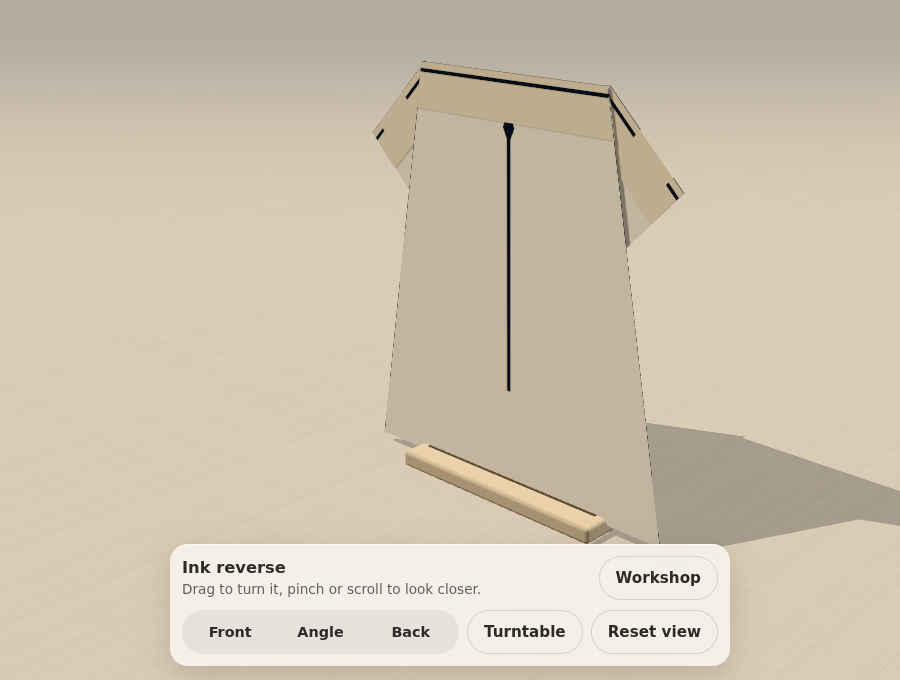
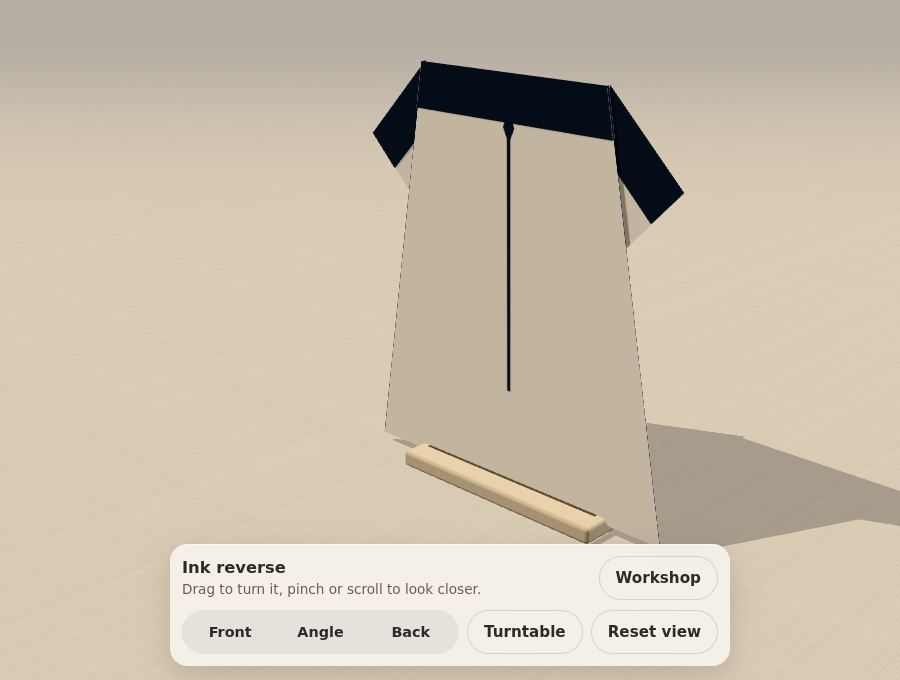
Match the paper notes to the new folded sheet
The back row is on the contact sheet. Ink reverse reads as a dark collar, sleeves, and back, and Corner bloom at 0° keeps most of the flower.

Changed region(s): [[0.4044, 0.0926, 0.7778, 0.3397]]

diff --git a/docs/paper-studies/NOTES.md b/docs/paper-studies/NOTES.md
@@ -1,59 +1,59 @@
 # Paper studies — what folding does to the pattern
 
-Captures are from one Chromium session (Playwright, software WebGL), viewport 900×680. Every shot in a category used the same camera position (matched to 0.001 model units). Flat shots are workshop step 0. Folded shots are the finished dress in Display, Front preset, with the Angle preset underneath on `folded-grid.png`. UI chrome was hidden after layout so it would not sit in the frame. Pattern rotation turns the front drawing only; the reverse does not rotate.
+Captures are from one Chromium session (Playwright, software WebGL), viewport 900×680. Every shot in a category used the same camera position (matched to 0.001 model units). Flat shots are workshop step 0. `folded-grid.png` is the finished dress at the Front preset, then Angle, then Back. UI chrome was hidden after layout. Pattern rotation turns the front drawing only; the reverse does not rotate.
 
-The dress front is the centre of the sheet between the slanted side creases. The top tenth becomes the collar and shows the reverse. The side flaps fold back and show their front drawing on the outside of the back. Sleeves show the reverse.
+On the finished dress the collar and the sleeves show the reverse. The Back preset is mostly that same reverse across the centre, with a patch of the front drawing where a side flap lies on top.
 
 ## Stripe and disc
 
-The disc survives, but the left side crease cuts it. On the front you get the right-hand part of the disc low on the skirt; the rest is on the back panel. Diagonal stripes stay readable and kink where a panel folds, so the back does not look like a copy of the front. The blue-grey reverse is a flat colour on the collar and the sleeves. No rotation set was shot; the disc is the thing that moves, and the default place (cut by the left crease) is already the interesting one.
+Most of the red disc is on the front, low and left of centre. The left edge cuts it, and a small red piece shows on the back. The stripes stay readable on the front. The blue-grey reverse is the collar, the sleeves, and the main field of the back. No rotation set was shot.
 
 ## Ivory, ink border
 
-The empty centre is the whole dress front. The ink frame is wider than the front panel at the shoulders, so it leaves with the side flaps and shows along the back edges. The black reverse is the collar and the sleeves. The small corner mark is not on the front. Turning it matters less than on a directional pattern: the frame is nearly symmetric, and the mark is small enough to disappear into a sleeve or a flap.
+The front is the empty ivory centre. No border and no corner mark show there. The collar and sleeves are black. The back is mostly that black reverse, with an ivory patch from a folded flap. The frame is nearly symmetric, so a quarter turn does not rearrange the front the way a one-sided motif does. No rotation set was shot.
 
 ## Indigo lattice
 
-The lattice still reads as one pattern after folding. Creases are obvious because the diagonals change direction on the back panels. Nothing is a focal point, so nothing is awkwardly cropped; the repeat just continues. The ochre reverse is a flat band on the collar and sleeves. A quarter turn swaps which diagonal is steeper. It is visible if you look, and it does not rescue or ruin the dress.
+The lattice covers the front and still reads as one repeat. Nothing large gets cropped. The ochre reverse is the collar, the sleeves, and the main field of the back; a dark blue patch of the front pattern sits on that back. A quarter turn changes which way the diagonals lean. It is visible, and it does not make or break the dress. No rotation set was shot.
 
 ## Botanical sprigs
 
-The half-drop sprigs cover the front and the back, so the dress never looks blank. Individual sprigs are cut in half at the side edges and at the collar fold. At this density that reads as a scatter, not as a broken picture. The mauve reverse is only the collar and sleeves. Rotation moves which sprigs are sliced, not the overall look.
+The sprigs cover the front. Some are cut at the side edges. The mauve reverse is the collar, the sleeves, and the main field of the back, so the back is not a second field of sprigs. A little of the print shows on the flap. Rotation moves which sprigs sit on the front. No rotation set was shot.
 
 ## Wide frame
 
-Flat, this is a dark green frame: thick bands at the top and bottom, thin bands at the sides, rust rules inside, empty middle. Folded, the empty middle is the dress. The top band is almost entirely the collar zone, so it disappears and the collar is the rust reverse instead. The thin side bands go to the back edges. What is left on the front is a dark band along the hem. At 90° and 270° the thick bands are on the sides, so they fold away and the front is bare except for the rust collar. At 180° the thick band sits under the collar and the thinner band is the hem. 0° is the only turn that keeps a clear piece of the border on the front, and even then it is just the hem. The reverse is a flat rust, strongest as the collar against the green hem.
+Flat, this is a dark green frame: thick bands at the top and bottom, thin bands at the sides, rust rules, empty middle. At 0° the front of the dress is that empty middle, with a dark green band along the hem. The top band falls in the collar zone, so the collar is the rust reverse instead. 180° also keeps a green band along the hem. At 90° and 270° there is no hem band; a narrow green strip stays on the left edge and the rest of the front is empty. The back field is the rust reverse, with a dark green patch where a side band folded in.
 
 ## Corner bloom
 
-One flower, low and to the left. At 0° the left crease cuts through it: the front shows a crescent of petals on the lower left, and the angle view shows the rest of the flower on the back panel, including leaves. The collar and sleeves are the dark green reverse, with no flower on them. At 90° the flower sits on the upper left and the collar and shoulder fold take most of it; a fragment remains. At 180° the flower is off the front entirely (it has gone to the back or into the collar zone) and the dress is a blank square with green sleeves. At 270° the flower sits low on the front, large enough to read as a whole bloom, with only the outer edge toward the side. 270° is the best front. 0° is the best if you want to see the cut, because the angle view still shows the missing half.
+One flower, low and to the left on the sheet. At 0° most of the bloom is on the left edge of the skirt. The leaves are cut off at that edge. It is not a thin crescent. At 90° the flower moves to the upper left and the collar cuts the top of it. At 180° it sits on the upper right of the front. At 270° most of it sits on the lower right of the skirt, still meeting the edge. The collar, the sleeves, and the back field are the dark green reverse. Almost none of the red flower is on the back. 270° is the best front: the flower is low on the skirt rather than pushed into the collar. 0° is the one that shows the side cut.
 
 ## Open stems
 
-Three stems and a lot of bare paper. At 0° one stem stands on the dress front, with a few leaves and the berries; it is thin, and the collar crops whatever reached the top edge. A second stem is on the right back panel in the angle view. The third is easy to lose. The reverse is a flat tan on the collar and sleeves and does not compete. Pixel counts of green on the front: 0° the most, then 90° (a stem still crosses the bodice), then 180° and 270° much emptier. 0° is the best. The open ground survives as open ground, which is the point, but two of the three stems do not stay on the front together.
+A few stems on a bare ground. At 0° they read on the front: stem, leaves, and the small berries, with a lot of empty paper around them. The collar and the back field are the tan reverse. Some green is on the back flap, not a second full stem. More of the drawing stays on the front at 0° than at 180° or 270°, where it shifts up and less of it remains in the skirt. 90° still crosses the bodice. 0° is the best of the four.
 
 ## Falling chevrons
 
-Every mark points toward the bottom edge of the sheet, and the strokes get heavier toward that edge. On the dress at 0° they point toward the hem and the hem is the darkest row. The side panels on the angle view are covered in the same marks, turned by the fold, so the back does not point with the front. Dashes are large enough that a crease cutting one of them still leaves a readable row. The reverse is a flat warm grey on the collar and sleeves. 0° is the best: the weight sits in the skirt and the direction follows the dress. 180° puts the heavy row at the neck and points the marks at the collar. 90° and 270° point them out the sides, so the bodice has no up-and-down.
+The marks point toward the bottom edge of the sheet, and the strokes get heavier that way. At 0° the front is heavier toward the hem. At 180° the dark marks sit in the upper part of the dress and the skirt is the light end. At 90° the heavier side is the left. The collar, the sleeves, and the back field are the grey reverse, so the back is not a second sheet of chevrons. 0° is the best: the weight sits in the skirt.
 
 ## Seed dashes
 
-A 16-by-16 grid of short horizontal dashes. On the dress they become a fine texture, not a figure. You can see that the surface is printed, including on the back panels, and you can see individual dashes get clipped at a panel edge. Nothing is noisy, and nothing is a focal point. The reverse is a muted green, clearly a different face, and it is the strongest thing about the folded piece: the collar and sleeves are green against the oatmeal ground. A quarter turn would stand the dashes on end. At this size that is a small change, so no rotation sheet was made.
+Short horizontal dashes on a wide grid. On the front they are a fine texture. You can see dashes, and you can see the ground between them. They do not form a figure, and they do not turn into noise. The collar, the sleeves, and the back field are the muted green reverse, which is easier to see than the dashes. A quarter turn would stand the dashes on end. At this size that is a small change, so no rotation sheet was made.
 
 ## Ink reverse
 
-The front is a warm blank with one vertical stroke and a small diamond. That stroke stays on the bodice at 0°. It is quiet, and a fold does not cut it. The reverse is the actual design: dark blue ground, a pale band across the top, pale corner blocks, and a large off-centre pale disc. Folded, the pale band is the collar. The angle view shows the dark ground and a large part of the disc on the sleeves, so the flipped faces are not a flat fill. The disc does not appear on the dress front. The back panels themselves are mostly the pale front paper, because those flaps show the front drawing. Rotation was not sheeted: the drawn reverse does not turn with the pattern, and turning the front only swings the single stroke (vertical bar versus a bar across the bodice).
+The front is a warm ground with one dark vertical stroke and a small diamond. The stroke sits on the bodice and is not split by a crease. The reverse is the same dark ink across the sheet, with a pale ring drawn in the middle. On the finished dress that ring does not appear. What shows is the dark field: the collar, both sleeves, and the main field of the back. A pale patch of the front paper lies on the back where a flap folds in. The contrast is the dark reverse against the pale front, not a disc on the sleeve. Rotation was not sheeted. The ring does not turn with the pattern; turning the front only swings the single stroke.
 
 ## Rank after folding
 
-Best of the six new papers, at the rotation that helps:
+Best of the six new papers:
 
-1. Falling chevrons at 0°. The direction and the dark hem still read, and the back panels turn that direction into a contrast.
-2. Corner bloom at 270°. The flower is large enough to stay a flower. At 0° it is only a crescent.
-3. Ink reverse at 0°. The collar and the sleeves show a reverse that was drawn for them.
+1. Falling chevrons at 0°. The marks and the heavier hem still read on the front.
+2. Corner bloom at 270°. The flower sits on the lower right of the skirt. At 0° most of the bloom is on the left edge and the leaves are cut off.
+3. Ink reverse at 0°. The collar, the sleeves, and the back are dark ink against the pale front and its single stroke.
 
 Weakest:
 
-1. Wide frame. The border is mostly lost to the collar, the hem edge, or the back. 90° and 270° leave the front bare.
-2. Seed dashes. They survive, and they do not make a mess, but the dress reads as plain paper with a green collar.
-3. Open stems. Even at 0° only one stem really holds the front, and 180°/270° give that front away.
+1. Wide frame. The front stays empty apart from a hem band (0° and 180°) or a narrow left strip (90° and 270°).
+2. Seed dashes. They survive as texture and do not clutter the dress. The green reverse is the part you actually notice.
+3. Open stems. The front is mostly bare paper. Less of the drawing stays there at 180° and 270°.

diff --git a/HANDOFF.md b/HANDOFF.md
@@ -25,7 +25,7 @@ Ten swatches do not fit the old centred column, or one unscrolling row at 390px 
 | seed-dashes | Seed dashes | `src/papers/seedDashes.ts` |
 | ink-reverse | Ink reverse | `src/papers/inkReverse.ts` |
 
-Folding notes are in `docs/paper-studies/NOTES.md`. Short version: Falling chevrons at 0° still reads (marks point toward the hem and get heavier there; the back panels turn that direction). Corner bloom is a crescent at 0° and a whole flower on the skirt at 270°. Ink reverse puts a drawn dark face on the collar and sleeves. Wide frame mostly leaves the front empty. Seed dashes survive only as a fine texture. Open stems keeps one stem on the front at 0°, and little at 180° or 270°.
+Folding notes are in `docs/paper-studies/NOTES.md`. Short version, matched to the sheets: Falling chevrons at 0° are heavier toward the hem. Corner bloom at 0° keeps most of the flower on the left edge, with the leaves cut off; at 270° it sits on the lower right. Ink reverse’s collar, sleeves, and back field are dark ink; the ring drawn on the reverse does not show on the dress. Wide frame leaves the front empty apart from a hem band or a narrow side strip. Seed dashes stay a fine texture. Open stems keeps more on the front at 0° than at 180° or 270°.
 
 ## What was tested
 
@@ -38,7 +38,9 @@ Headless Chromium via Playwright, `--use-angle=swiftshader`. Not a phone and not
 - Display: enter, Front / Angle / Back, drag orbit, wheel zoom, Reset view, Turntable, paper change while displayed, return to Workshop with step still 6.
 - 390×844 workshop and display: no horizontal page overflow. Phone row scrolls.
 
-`scripts/capture_papers.py` then shot all ten visible papers at one camera (positions matched to 0.001). Sheets: `docs/paper-studies/flat-grid.png`, `folded-grid.png` (front, then angle), `rotation-grid.png` (Corner bloom, Falling chevrons, Wide frame, Open stems).
+`scripts/capture_papers.py` shot all ten visible papers at one camera (positions matched to 0.001). Sheets: `docs/paper-studies/flat-grid.png`, `folded-grid.png` (front, then angle, then back), `rotation-grid.png` (Corner bloom, Falling chevrons, Wide frame, Open stems).
+
+A later pass changed only `src/papers/inkReverse.ts` `drawBack`. The first reverse painted a pale band and pale corners, so the collar and sleeves came out pale. The back is now the dark ink, with a ring kept in the middle. New Front, Angle, and Back tiles show dark collar and sleeves. The ring is not visible on the dress. Ink reverse was selected from the swatches during a fold and again on the finished piece, then Display was opened. No console errors. `npm run typecheck`, `npm test`, and `npm run build` were run again after that change.
 
 ## Not tested
 
